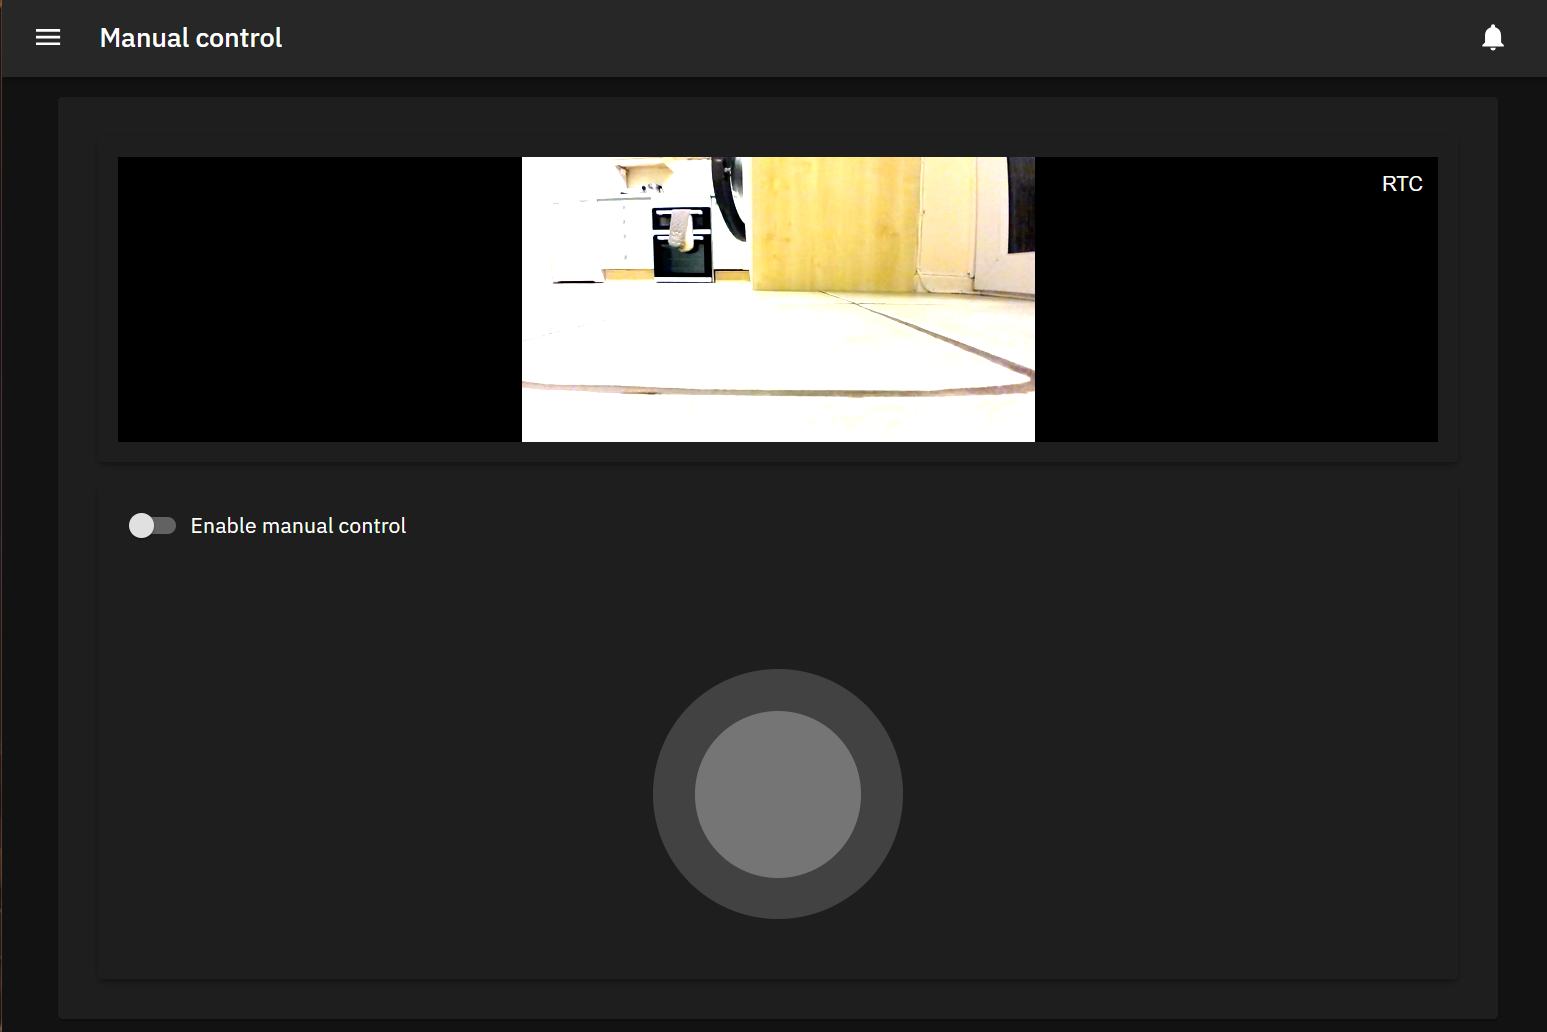
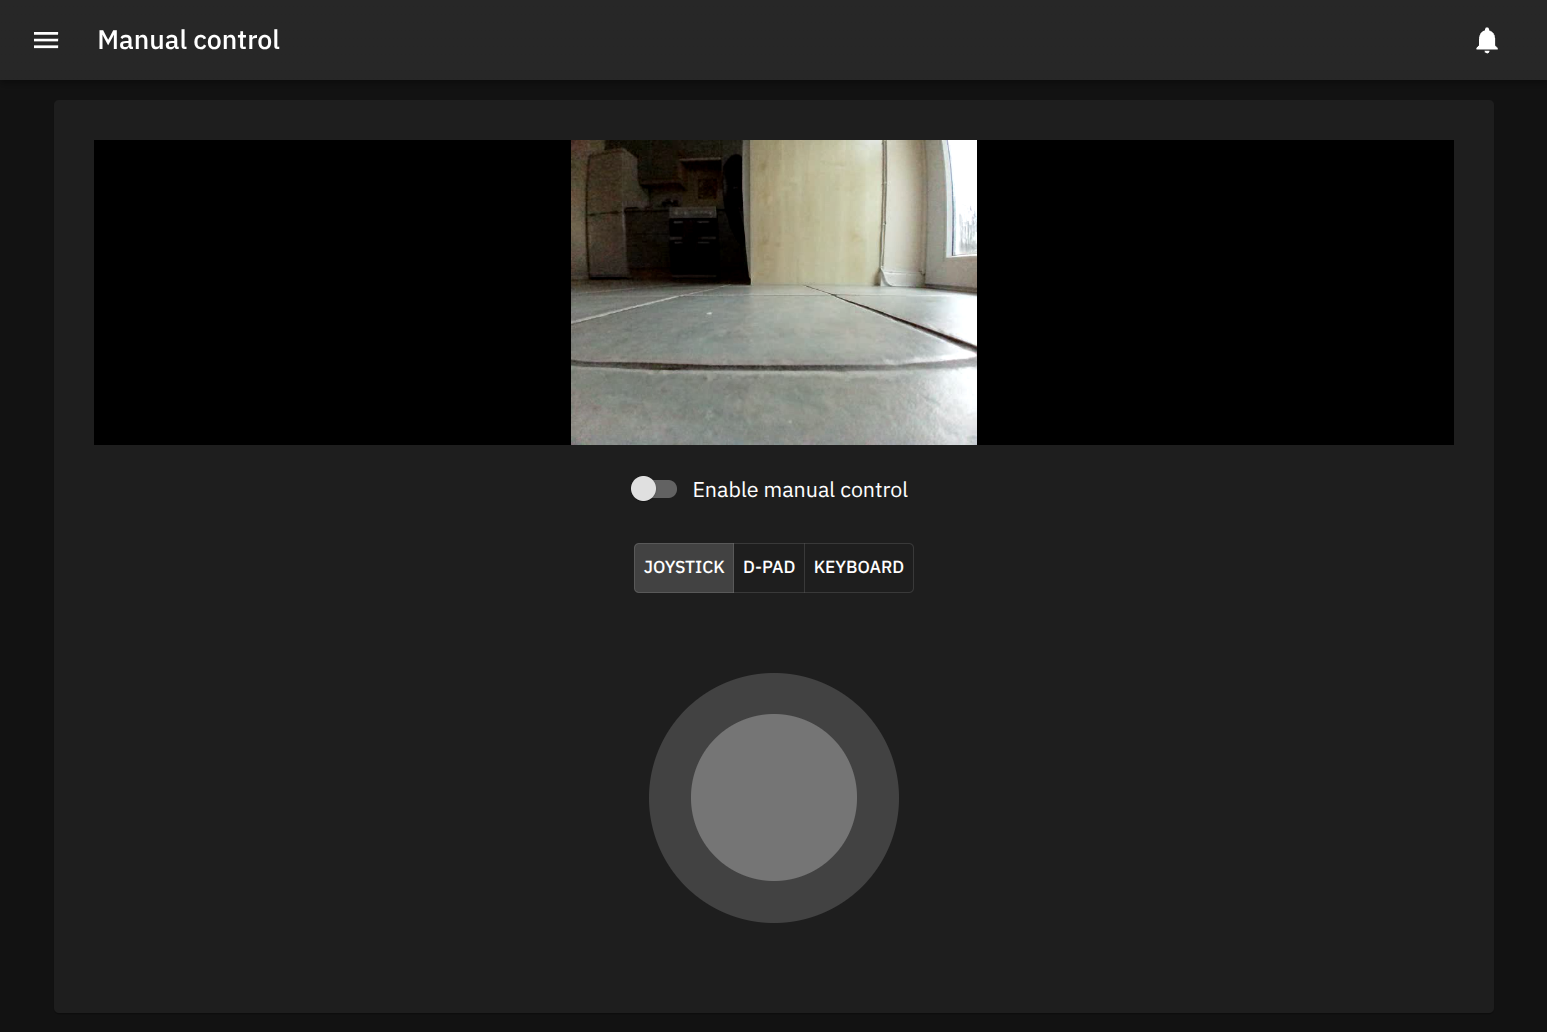
Updated README screenshots and camera feature line and restored the upstream default login

diff --git a/README.md b/README.md
@@ -38,6 +38,7 @@ Please read the supported devices section for more information.
 - Multiple map / floor capabilities (be sure to enable in quirks!).
 - Map rotation.
 - Segment clean order.
+- Camera stream on the home page and over HTTPS (uses upstream's Duststreaming).
 - On-demand playback of custom audio.
 - MQTT support for map switching.
 - MQTT support for custom audio playback.
